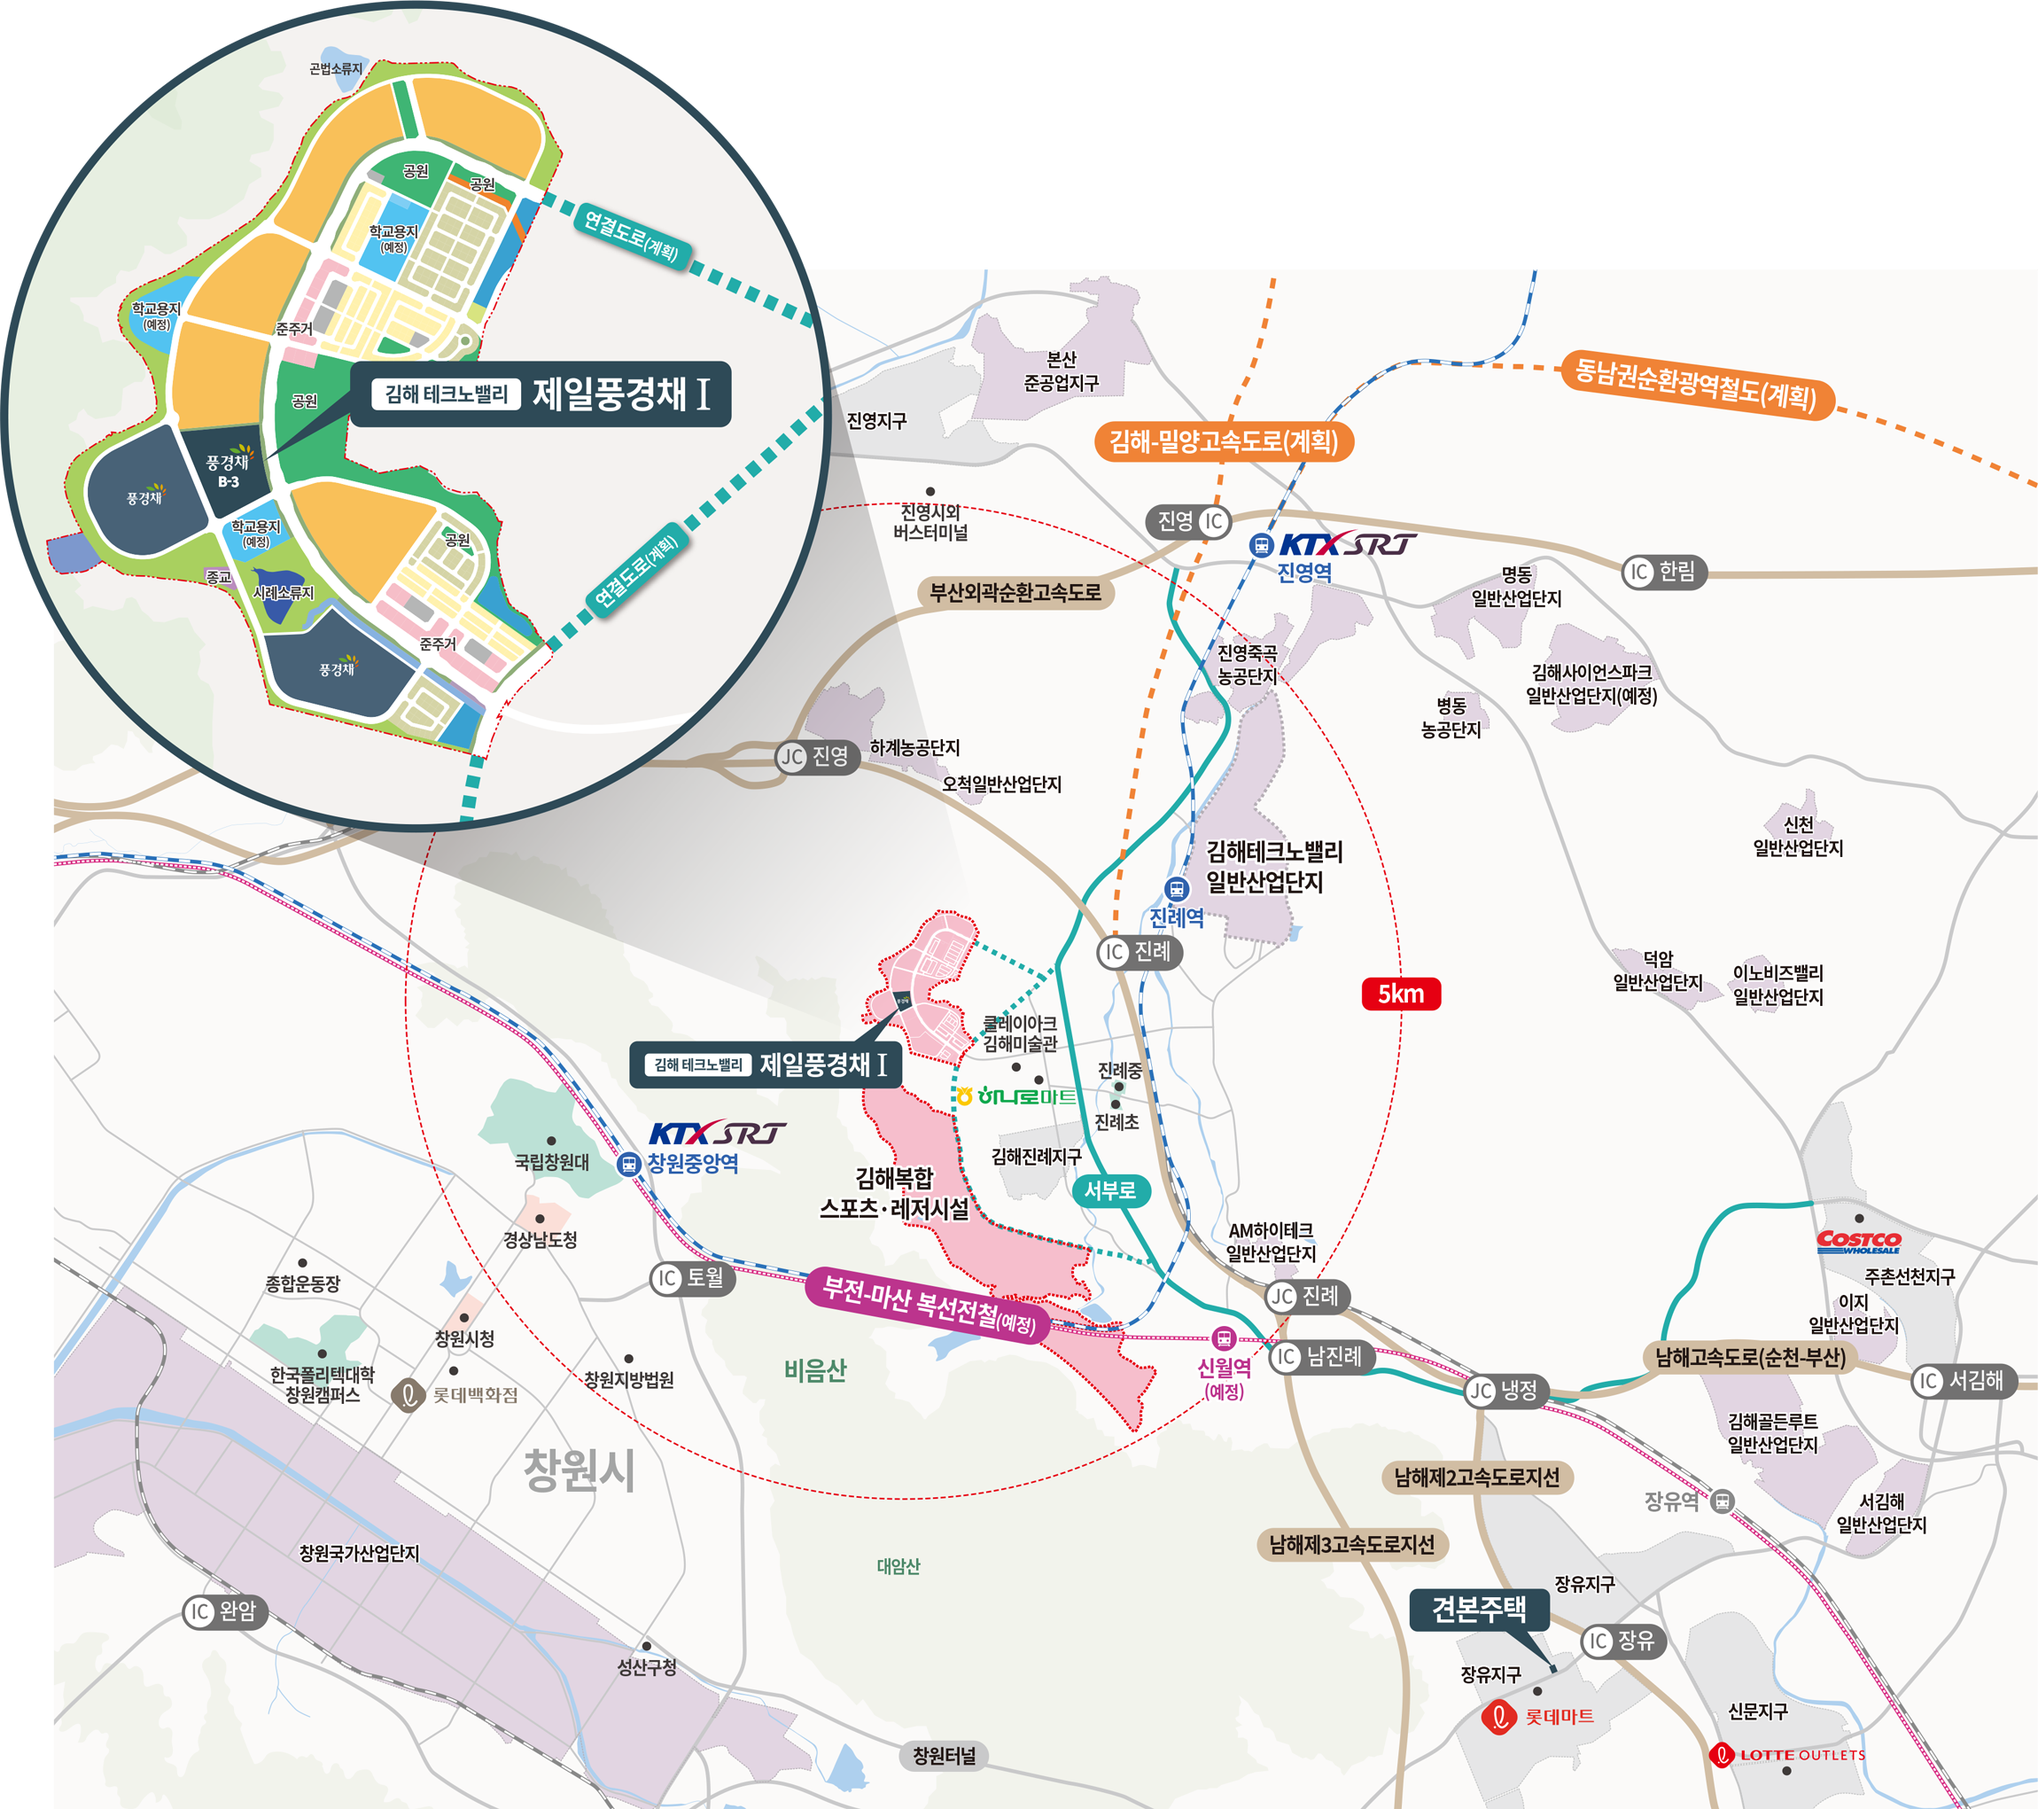
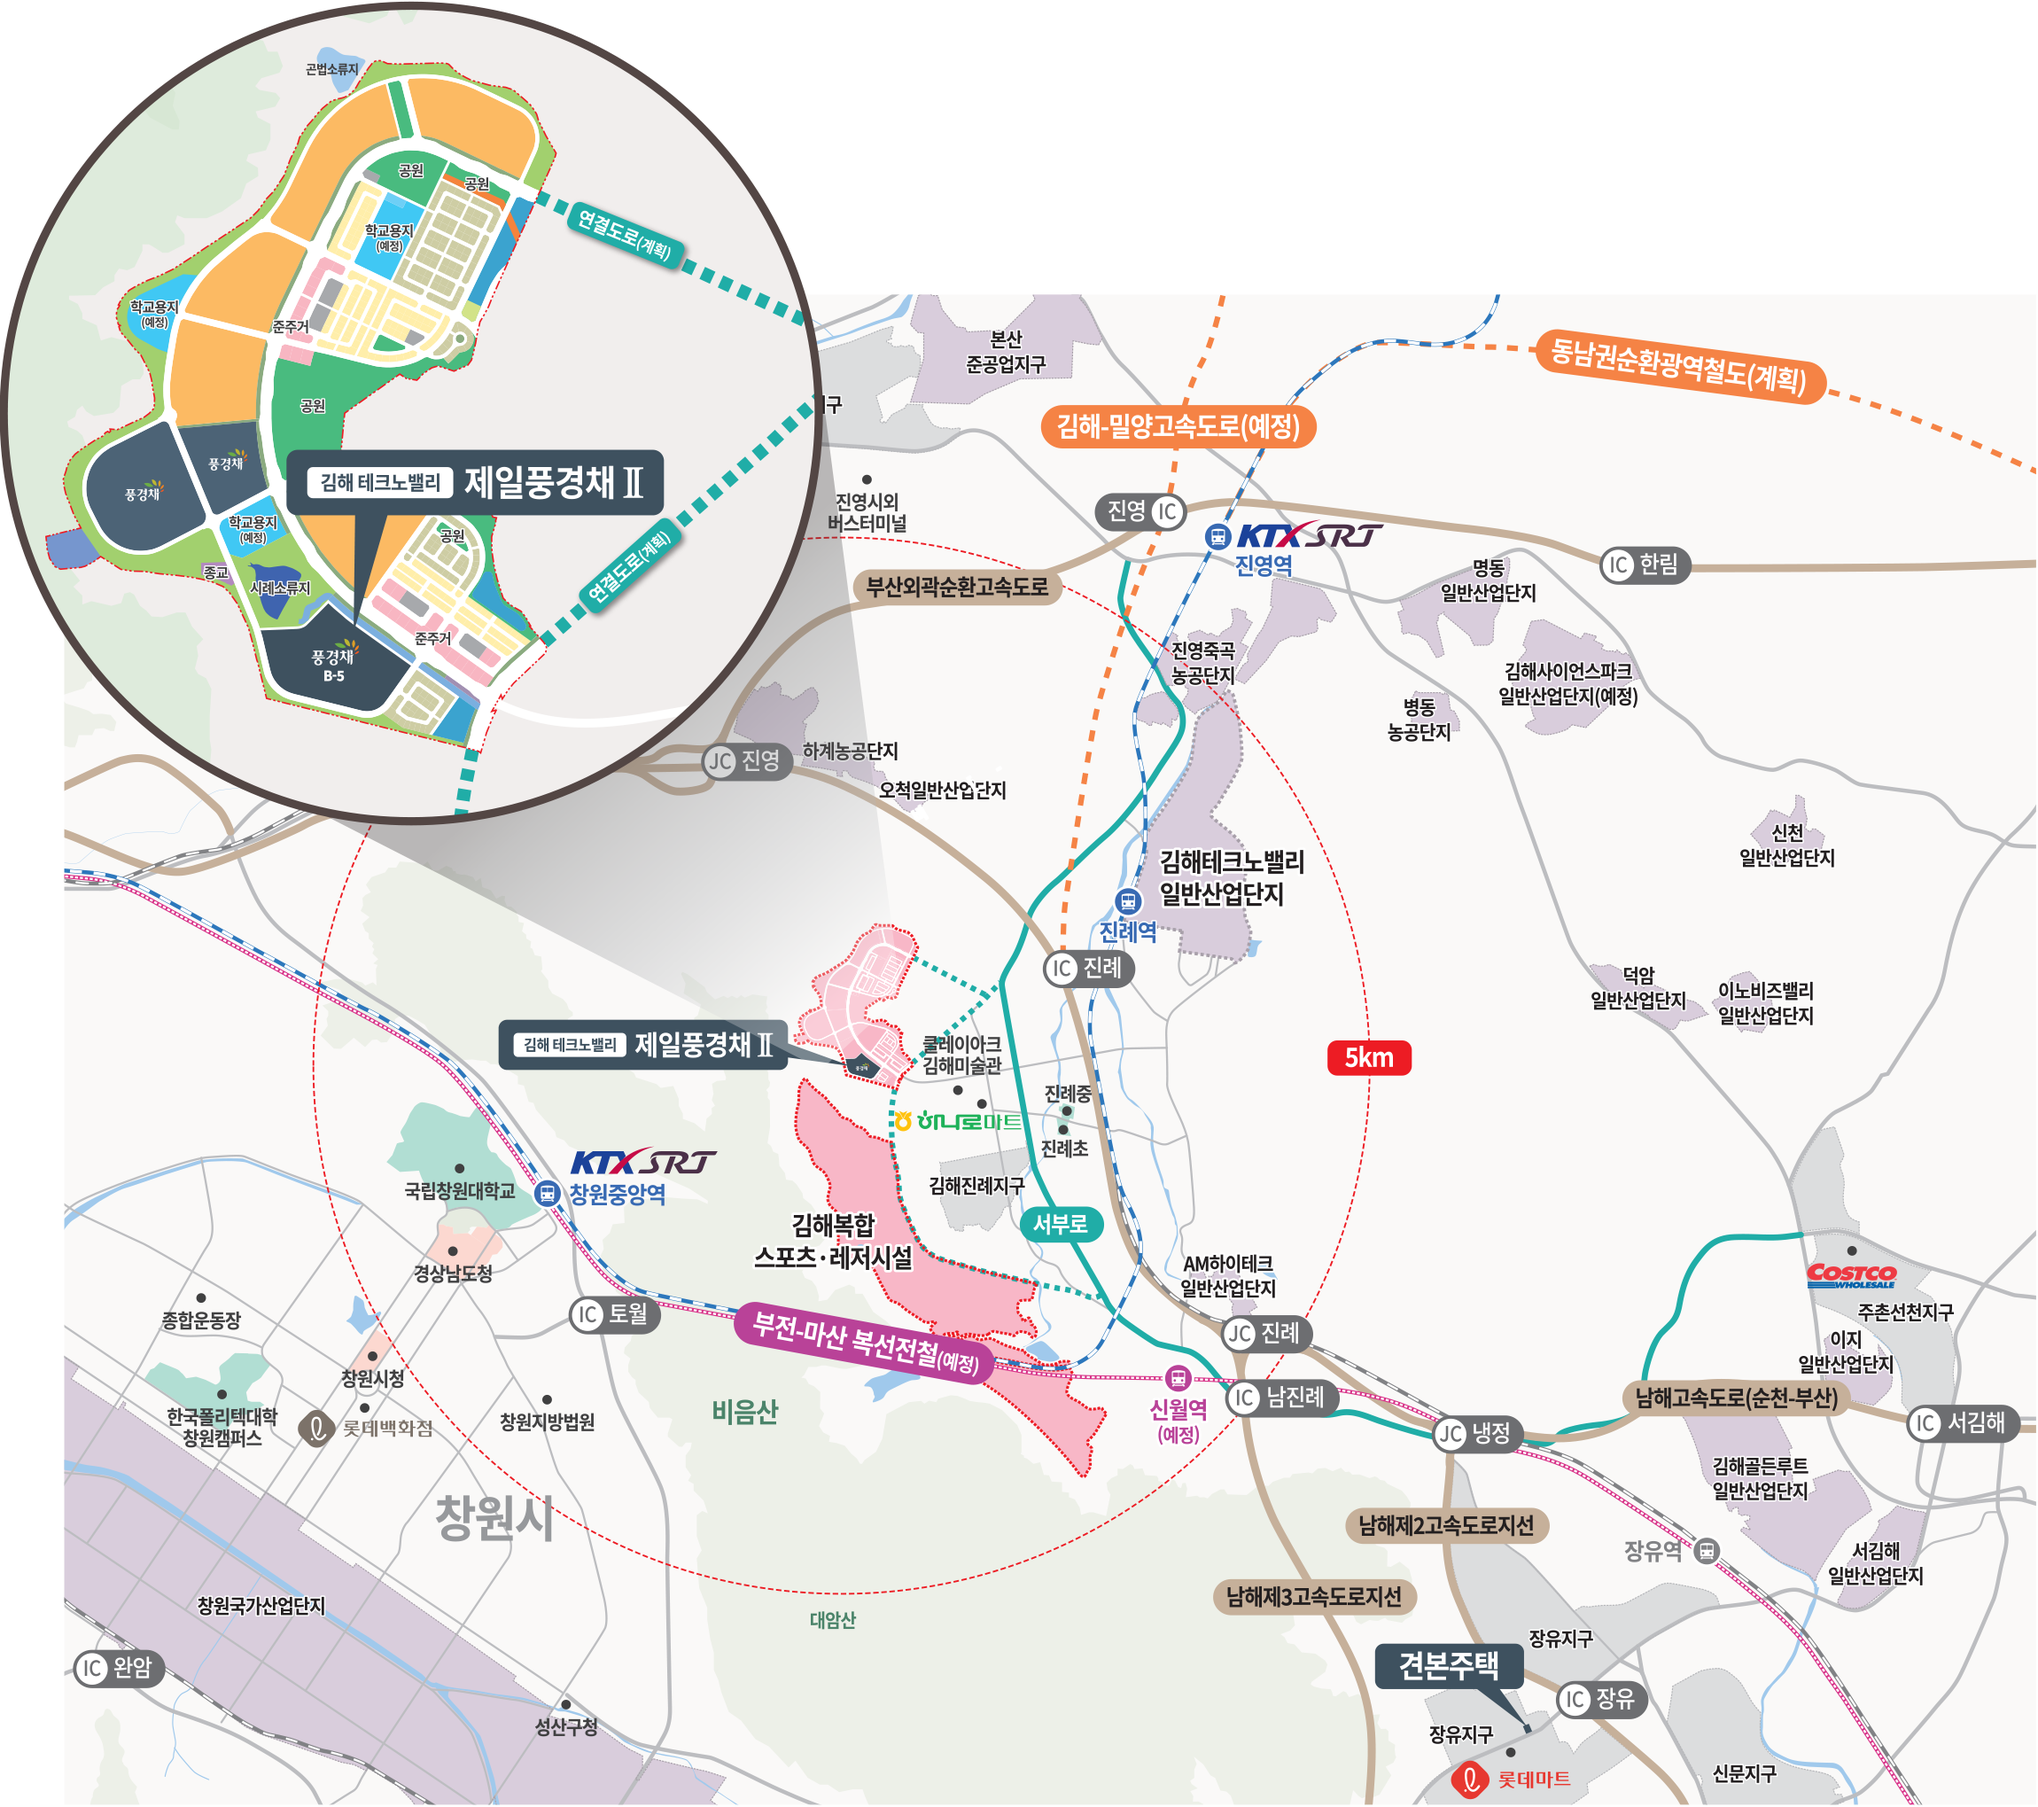
feat : 오타수정

diff --git a/src/components/UnitplanBox/UnitplanBox.jsx b/src/components/UnitplanBox/UnitplanBox.jsx
@@ -3,10 +3,10 @@ import { AiOutlineRight, AiOutlineLeft } from "react-icons/ai";
 import { useMediaQuery } from "react-responsive";
 import styles from "./UnitplanBox.module.scss";
 // import room59A from "../../assets/UnitplanBox/unit_59a.jpg";
-// import room59B from "../../assets/UnitplanBox/unit_59b.jpg";
-import room84A from "../../assets/UnitplanBox/unit_84a.jpg";
-import room84B from "../../assets/UnitplanBox/unit_84b.jpg";
-import room84C from "../../assets/UnitplanBox/unit_84c.jpg";
+// import room59B from "../../assets/UnitplanBox/unit_59b.jpg"; 
+import room84A from "../../assets/UnitplanBox/unit01.jpg";
+import room84B from "../../assets/UnitplanBox/unit02.jpg";
+import room84C from "../../assets/UnitplanBox/unit03.jpg";
 // import room119B from "../../assets/UnitplanBox/119B.png";
 
 

diff --git a/src/pages/Main/Main.module.scss b/src/pages/Main/Main.module.scss
@@ -1047,8 +1047,8 @@
     }
 
     img {
-        margin: 15vw 5VW 2vw 0;
-        width: 90vw;
+        margin: 10vw 10vw 2vw 0;
+        width: 35vw;
 
     }
 }
